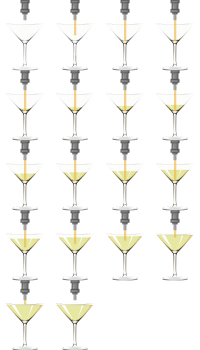
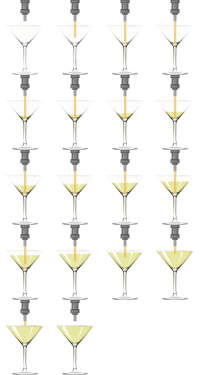
Added all missing levels. Fixed splondee receiver

diff --git a/levels.js b/levels.js
@@ -12,18 +12,6 @@ level[0] = {
 };
 
 level[1] = {
-	drinks: [null, "beer", null, "wine", null],
-	pipes: [
-		[["rect", 0], ["rect", 0], ["segundo", 1], ["rect", 0], ["curve", 1], ["rect", 0], ["curve", 0], ["rect", 0], ["bridge", 0], ["rect", 0], ["rect", 1]],
-		[["rect", 0], ["curve", 1], ["rect", 0], ["rect", 0], ["curve", 3], ["rect", 0], ["rect", 0], ["rect", 1], ["segundo", 1], ["rect", 0], ["bridge", 0]],
-		[["bridge", 0], ["rect", 0], ["curve", 2], ["curve", 1], ["rect", 0], ["curve", 1], ["rect", 1], ["curve", 0], ["rect", 0], ["rect", 1], ["rect", 0]],
-		[["rect", 1], ["rect", 0], ["curve", 1], ["rect", 0], ["curve", 1], ["rect", 0], ["rect", 0], ["segundo", 1], ["rect", 0], ["rect", 0], ["segundo", 1]],
-		[["rect", 0], ["curve", 1], ["curve", 0], ["segundo", 1], ["rect", 0], ["bridge", 0], ["segundo", 1], ["curve", 2], ["curve", 1], ["rect", 0], ["rect", 0]]
-	],
-	receiver: [null, "wine", null, null, null, null, null, null, null, "beer", null]
-};
-
-level[2] = {
 	drinks: [null, "wine", null, null, null],
 	pipes: [
 		[["curve", 2], ["curve", 1], ["curve", 2], ["curve", 2], ["curve", 0], ["rect", 0], ["rect", 0], ["curve", 1], ["segundo", 0], ["curve", 0], ["curve", 2]],
@@ -34,6 +22,71 @@ level[2] = {
 	], 
 	receiver: ["wine", null, null, "wine", null, null, null, "wine", null, null, null]
 };
+
+level[2] = {
+	drinks: ["beer", null, "tequila", null, null],
+	pipes: [
+		[["curve", 0], ["cross", 0], ["curve", 0], ["curve", 0], ["curve", 3], ["segundo", 0], ["rect", 0], ["curve", 1], ["curve", 3], ["curve", 1], ["curve", 0]],
+		[["curve", 3], ["rect", 0], ["segundo", 0], ["curve", 0], ["segundo", 0], ["segundo", 1], ["curve", 3], ["curve", 2], ["bridge", 0], ["curve", 1], ["curve", 2]],
+		[["curve", 1], ["segundo", 1], ["curve", 0], ["curve", 3], ["curve", 3], ["curve", 2], ["rect", 0], ["curve", 2], ["curve", 0], ["curve", 1], ["segundo", 1]],
+		[["segundo", 0], ["curve", 0], ["curve", 1], ["curve", 2], ["segundo", 0], ["curve", 0], ["segundo", 1], ["segundo", 0], ["segundo", 1], ["segundo", 0], ["curve", 2]],
+		[["curve", 0], ["rect", 1], ["segundo", 0], ["curve", 1], ["curve", 3], ["segundo", 0], ["segundo", 1], ["curve", 3], ["curve", 0], ["curve", 3], ["curve", 2]]
+	],
+	receiver: [null, "beer", null, null, null, "beer", null, "tequila", null, "beer", null]
+};
+
+// level[2] = {
+// 	drinks: ["beer", null, "tequila", null, null],
+// 	pipes: [
+// 		[["curve", 2], ["segundo", 0], ["curve", 3], ["curve", 2], ["curve", 3], ["rect", 1], ["curve", 2], ["curve", 3], ["curve", 3], ["rect", 0], ["segundo", 1]],
+// 		[["curve", 1], ["segundo", 0], ["segundo", 0], ["curve", 0], ["curve", 1], ["segundo", 1], ["segundo", 0], ["bridge", 0], ["segundo", 1], ["curve", 0], ["curve", 1]],
+// 		[["curve", 2], ["curve", 1], ["curve", 0], ["curve", 1], ["curve", 2], ["cross", 0], ["curve", 0], ["curve", 1], ["segundo", 1], ["curve", 3], ["curve", 0]],
+// 		[["curve", 3], ["curve", 0], ["segundo", 0], ["rect", 0], ["segundo", 0], ["curve", 0], ["segundo", 0], ["rect", 0], ["segundo", 0], ["segundo", 0], ["curve", 0]],
+// 		[["curve", 0], ["curve", 2], ["curve", 0], ["curve", 2], ["segundo", 1], ["curve", 3], ["segundo", 1], ["curve", 3], ["curve", 1], ["curve", 3], ["curve", 0]]
+// 	],
+// 	receiver: [null, "beer", null, null, null, "beer", null, "tequila", null, "beer", null]
+// };
+
+
+
+level[3] = {
+	drinks: [null, "beer", null, "wine", null],
+	pipes: [
+		[["rect", 0], ["rect", 0], ["segundo", 1], ["rect", 0], ["curve", 1], ["rect", 0], ["curve", 0], ["rect", 0], ["bridge", 0], ["rect", 0], ["rect", 1]],
+		[["rect", 0], ["curve", 1], ["rect", 0], ["rect", 0], ["curve", 3], ["rect", 0], ["rect", 0], ["rect", 1], ["segundo", 1], ["rect", 0], ["bridge", 0]],
+		[["bridge", 0], ["rect", 0], ["mixer", 0], ["curve", 1], ["rect", 0], ["curve", 1], ["rect", 1], ["curve", 0], ["rect", 0], ["rect", 1], ["rect", 0]],
+		[["rect", 1], ["rect", 0], ["curve", 1], ["rect", 0], ["curve", 1], ["rect", 0], ["rect", 0], ["segundo", 1], ["rect", 0], ["rect", 0], ["segundo", 1]],
+		[["rect", 0], ["curve", 1], ["curve", 0], ["segundo", 1], ["rect", 0], ["bridge", 0], ["segundo", 1], ["curve", 2], ["curve", 1], ["rect", 0], ["rect", 0]]
+	],
+	receiver: [null, "wine", null, null, null, null, null, null, null, "beer", null]
+};
+
+
+level[4] = {
+	drinks: ["wine", null, "soda", null, null],
+	pipes: [
+		[["segundo", 1], ["rect", 0], ["curve", 1], ["rect", 0], ["rect", 1], ["bridge", 0], ["segundo", 0], ["curve", 3], ["rect", 0], ["curve", 3], ["curve", 2]],
+		[["cross", 0], ["curve", 2], ["mixer", 0], ["rect", 1], ["curve", 3], ["curve", 0], ["bridge", 0], ["segundo", 0], ["bridge", 0], ["curve", 3], ["rect", 0]],
+		[["curve", 2], ["rect", 1], ["curve", 0], ["segundo", 0], ["curve", 0], ["segundo", 1], ["rect", 1], ["curve", 1], ["curve", 1], ["cross", 0], ["rect", 0]],
+		[["curve", 3], ["curve", 3], ["curve", 2], ["rect", 0], ["rect", 0], ["curve", 3], ["rect", 1], ["curve", 0], ["curve", 0], ["curve", 0], ["curve", 3]],
+		[["curve", 1], ["curve", 2], ["rect", 0], ["rect", 0], ["curve", 3], ["rect", 0], ["rect", 0], ["rect", 0], ["rect", 0], ["curve", 1], ["rect", 0]]
+	],
+	receiver: ["hybrid", null, null, "wine", "hybrid", null, null, "hybrid", null, null, null]
+};
+
+
+// level[4] = {
+// 	drinks: ["wine", null, "soda", null, null],
+// 	pipes: [
+// 		[["curve", 0], ["cross", 0], ["rect", 0], ["rect", 0], ["curve", 3], ["rect", 1], ["curve", 1], ["curve", 2], ["curve", 3], ["curve", 2], ["curve", 0]],
+// 		[["curve", 3], ["segundo", 1], ["mixer", 0], ["rect", 0], ["bridge", 0], ["segundo", 0], ["rect", 0], ["rect", 0], ["rect", 0], ["curve", 0], ["curve", 3]],
+// 		[["curve", 2], ["rect", 0], ["cross", 0], ["rect", 0], ["bridge", 0], ["rect", 0], ["curve", 3], ["segundo", 1], ["rect", 0], ["segundo", 0], ["rect", 0]],
+// 		[["rect", 1], ["rect", 0], ["rect", 1], ["curve", 2], ["segundo", 0], ["rect", 0], ["curve", 1], ["curve", 3], ["rect", 0], ["rect", 0], ["curve", 1]],
+// 		[["rect", 1], ["curve", 3], ["curve", 1], ["bridge", 0], ["curve", 3], ["curve", 0], ["curve", 3], ["rect", 1], ["curve", 2], ["curve", 0], ["curve", 0]]
+// 	],
+// 	receiver: ["hybrid", null, null, "wine", "hybrid", null, null, "hybrid", null, null, null]
+// };
+
 
 level[5] = {
 	drinks: ["tequila", null, "beer", null, null],
@@ -47,6 +100,7 @@ level[5] = {
 	receiver: ["beer", null, null, null, "desperados", null, "tequila", "desperados", null, null, "desperados"]
 };
 
+
 // level[5] = {
 // 	drinks: ["tequila", null, "beer", null, null],
 // 	pipes: [
@@ -58,6 +112,33 @@ level[5] = {
 // 	],
 // 	receiver: ["beer", null, null, null, "desperados", null, "tequila", "desperados", null, null, "desperados"]
 // };
+
+
+level[6] = {
+	drinks: ["beer", "tequila", null, "wine", "soda"],
+    pipes: [
+		[["curve", 3], ["curve", 3], ["curve", 2], ["curve", 1], ["curve", 0], ["cross", 0], ["curve", 2], ["curve", 0], ["cross", 0], ["curve", 3], ["cross", 0]],
+		[["rect", 0], ["rect", 1], ["mixer", 0], ["rect", 1], ["rect", 0], ["rect", 0], ["curve", 1], ["bridge", 0], ["mixer", 0], ["bridge", 0], ["curve", 0]],
+		[["bridge", 0], ["rect", 1], ["rect", 1], ["rect", 1], ["curve", 2], ["rect", 0], ["rect", 0], ["bridge", 0], ["cross", 0], ["rect", 1], ["curve", 0]],
+		[["curve", 1], ["curve", 1], ["rect", 1], ["rect", 0], ["curve", 3], ["segundo", 0], ["rect", 0], ["rect", 0], ["curve", 2], ["rect", 0], ["rect", 0]],
+		[["segundo", 1], ["rect", 1], ["rect", 0], ["curve", 2], ["curve", 0], ["rect", 1], ["rect", 1], ["rect", 1], ["rect", 1], ["bridge", 0], ["rect", 1]]
+	],
+	receiver: ["hybrid", "hybrid", null, null, null, "desperados", "desperados", null, "desperados", null, null]
+};
+
+// level[6] = {
+// 	drinks: ["beer", "tequila", null, "wine", "soda"],
+//     pipes: [
+// 		[["curve", 3], ["rect", 1], ["rect", 0], ["rect", 1], ["curve", 1], ["segundo", 1], ["rect", 0], ["rect", 1], ["curve", 3], ["rect", 1], ["segundo", 0]],
+// 		[["rect", 1], ["curve", 1], ["mixer", 0], ["curve", 0], ["rect", 0], ["curve", 2], ["curve", 0], ["curve", 1], ["mixer", 0], ["curve", 0], ["cross", 0]],
+// 		[["curve", 2], ["cross", 0], ["bridge", 0], ["rect", 0], ["bridge", 0], ["cross", 0], ["rect", 0], ["bridge", 0], ["curve", 0], ["rect", 1], ["bridge", 0]],
+// 		[["rect", 1], ["rect", 1], ["rect", 1], ["curve", 0], ["curve", 2], ["curve", 2], ["rect", 0], ["rect", 0], ["curve", 3], ["rect", 0], ["curve", 2]],
+// 		[["rect", 1], ["rect", 1], ["curve", 1], ["rect", 0], ["rect", 0], ["cross", 0], ["curve", 3], ["bridge", 0], ["rect", 1], ["rect", 1], ["rect", 0]]
+// 	],
+// 	receiver: ["hybrid", "hybrid", null, null, null, "desperados", "desperados", null, "desperados", null, null]
+// };
+
+
 
 level[7] = {
 	drinks: ["soda", "tequila", null, null, "liquor"],
